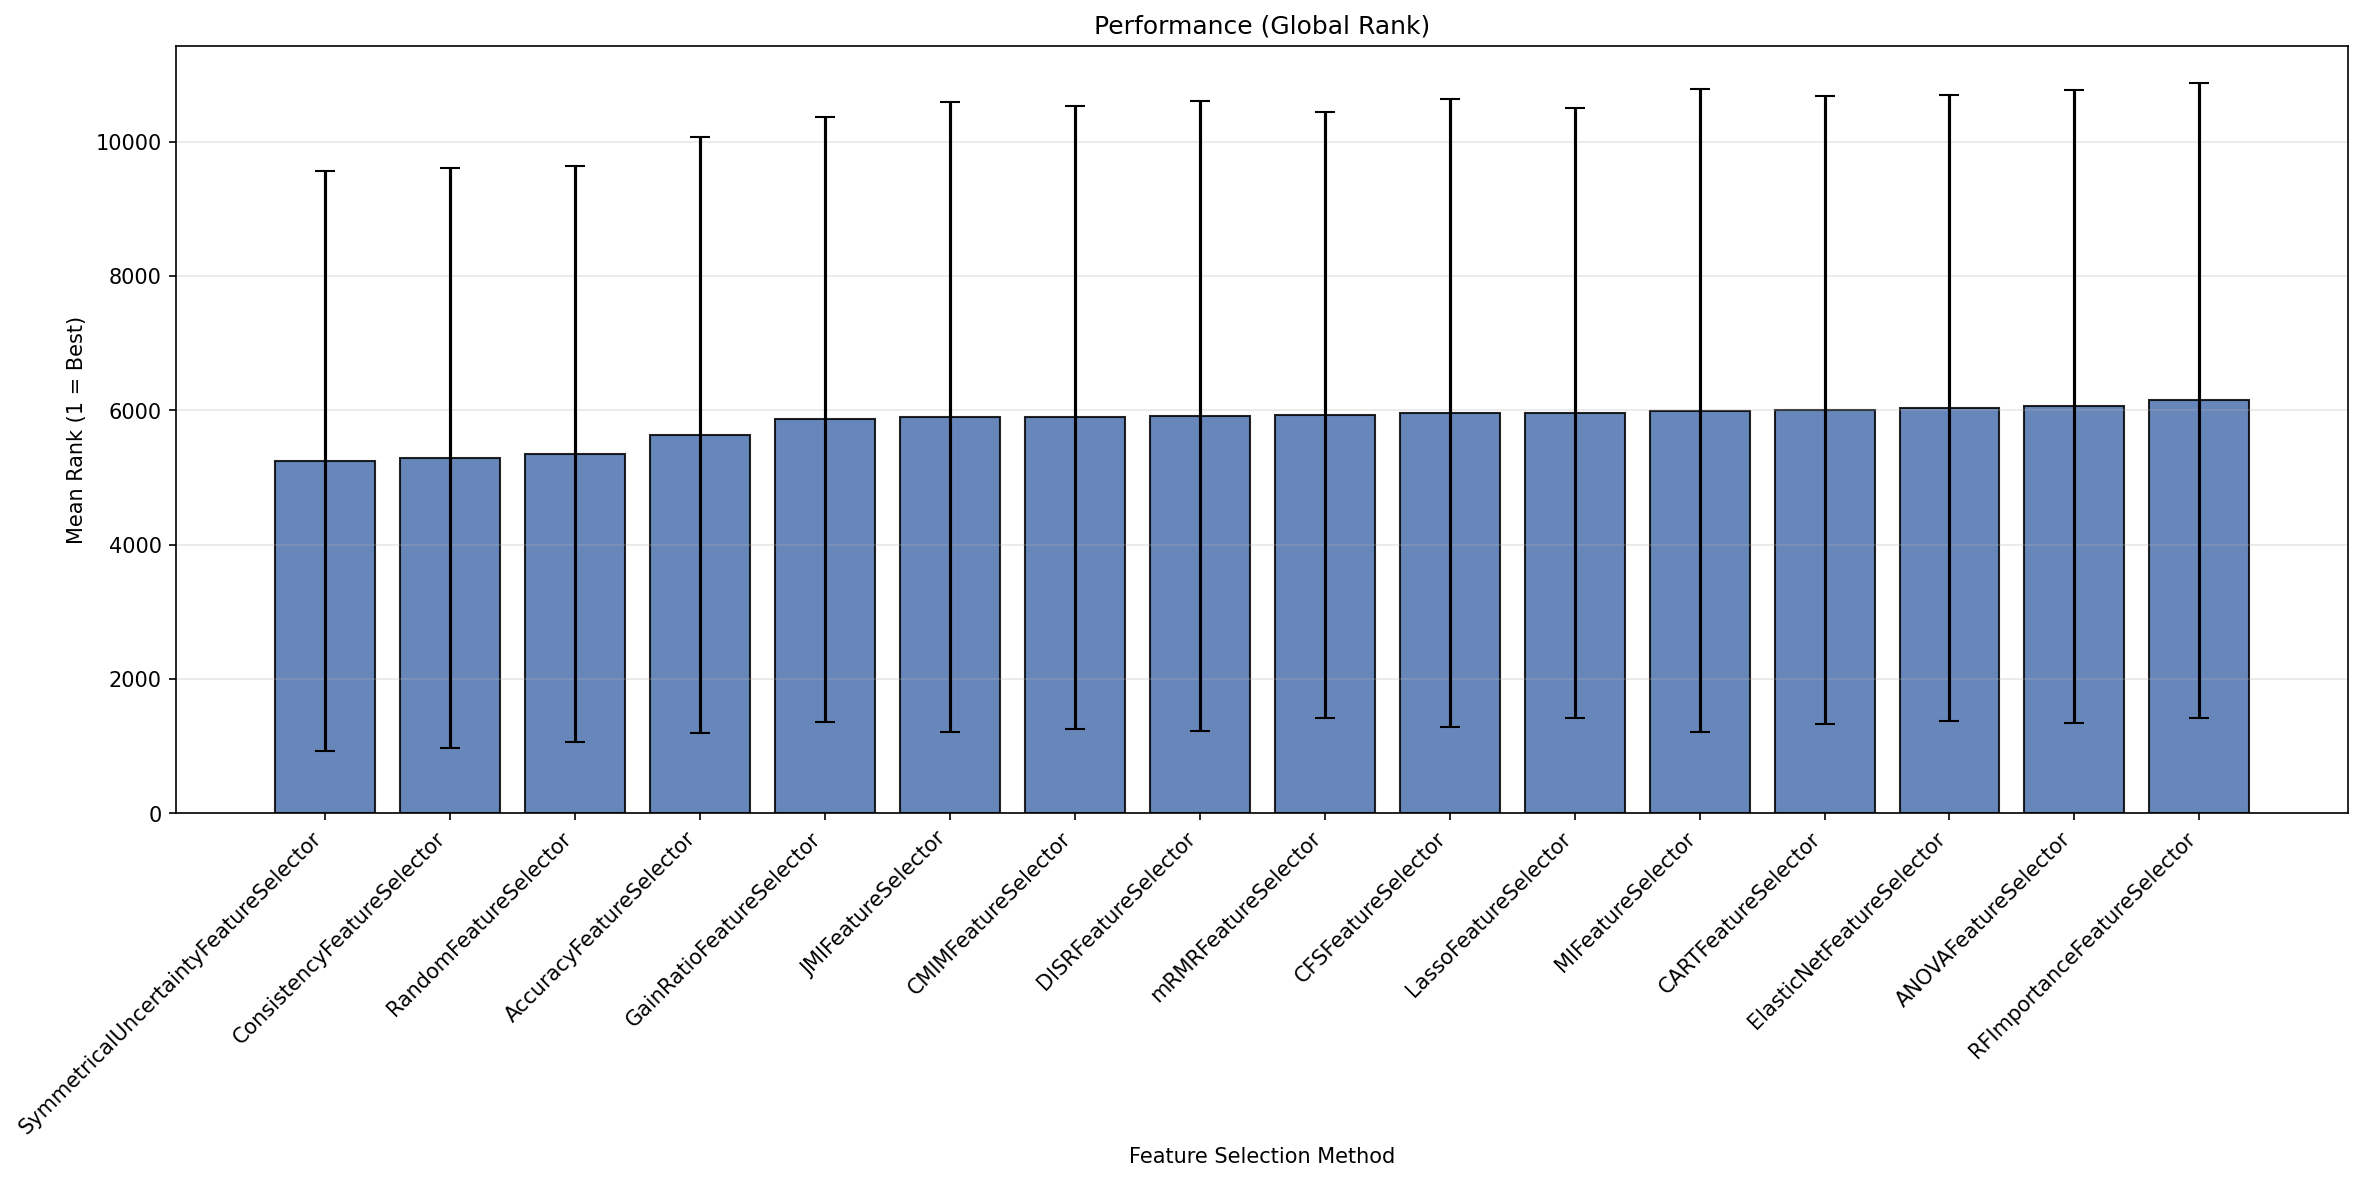
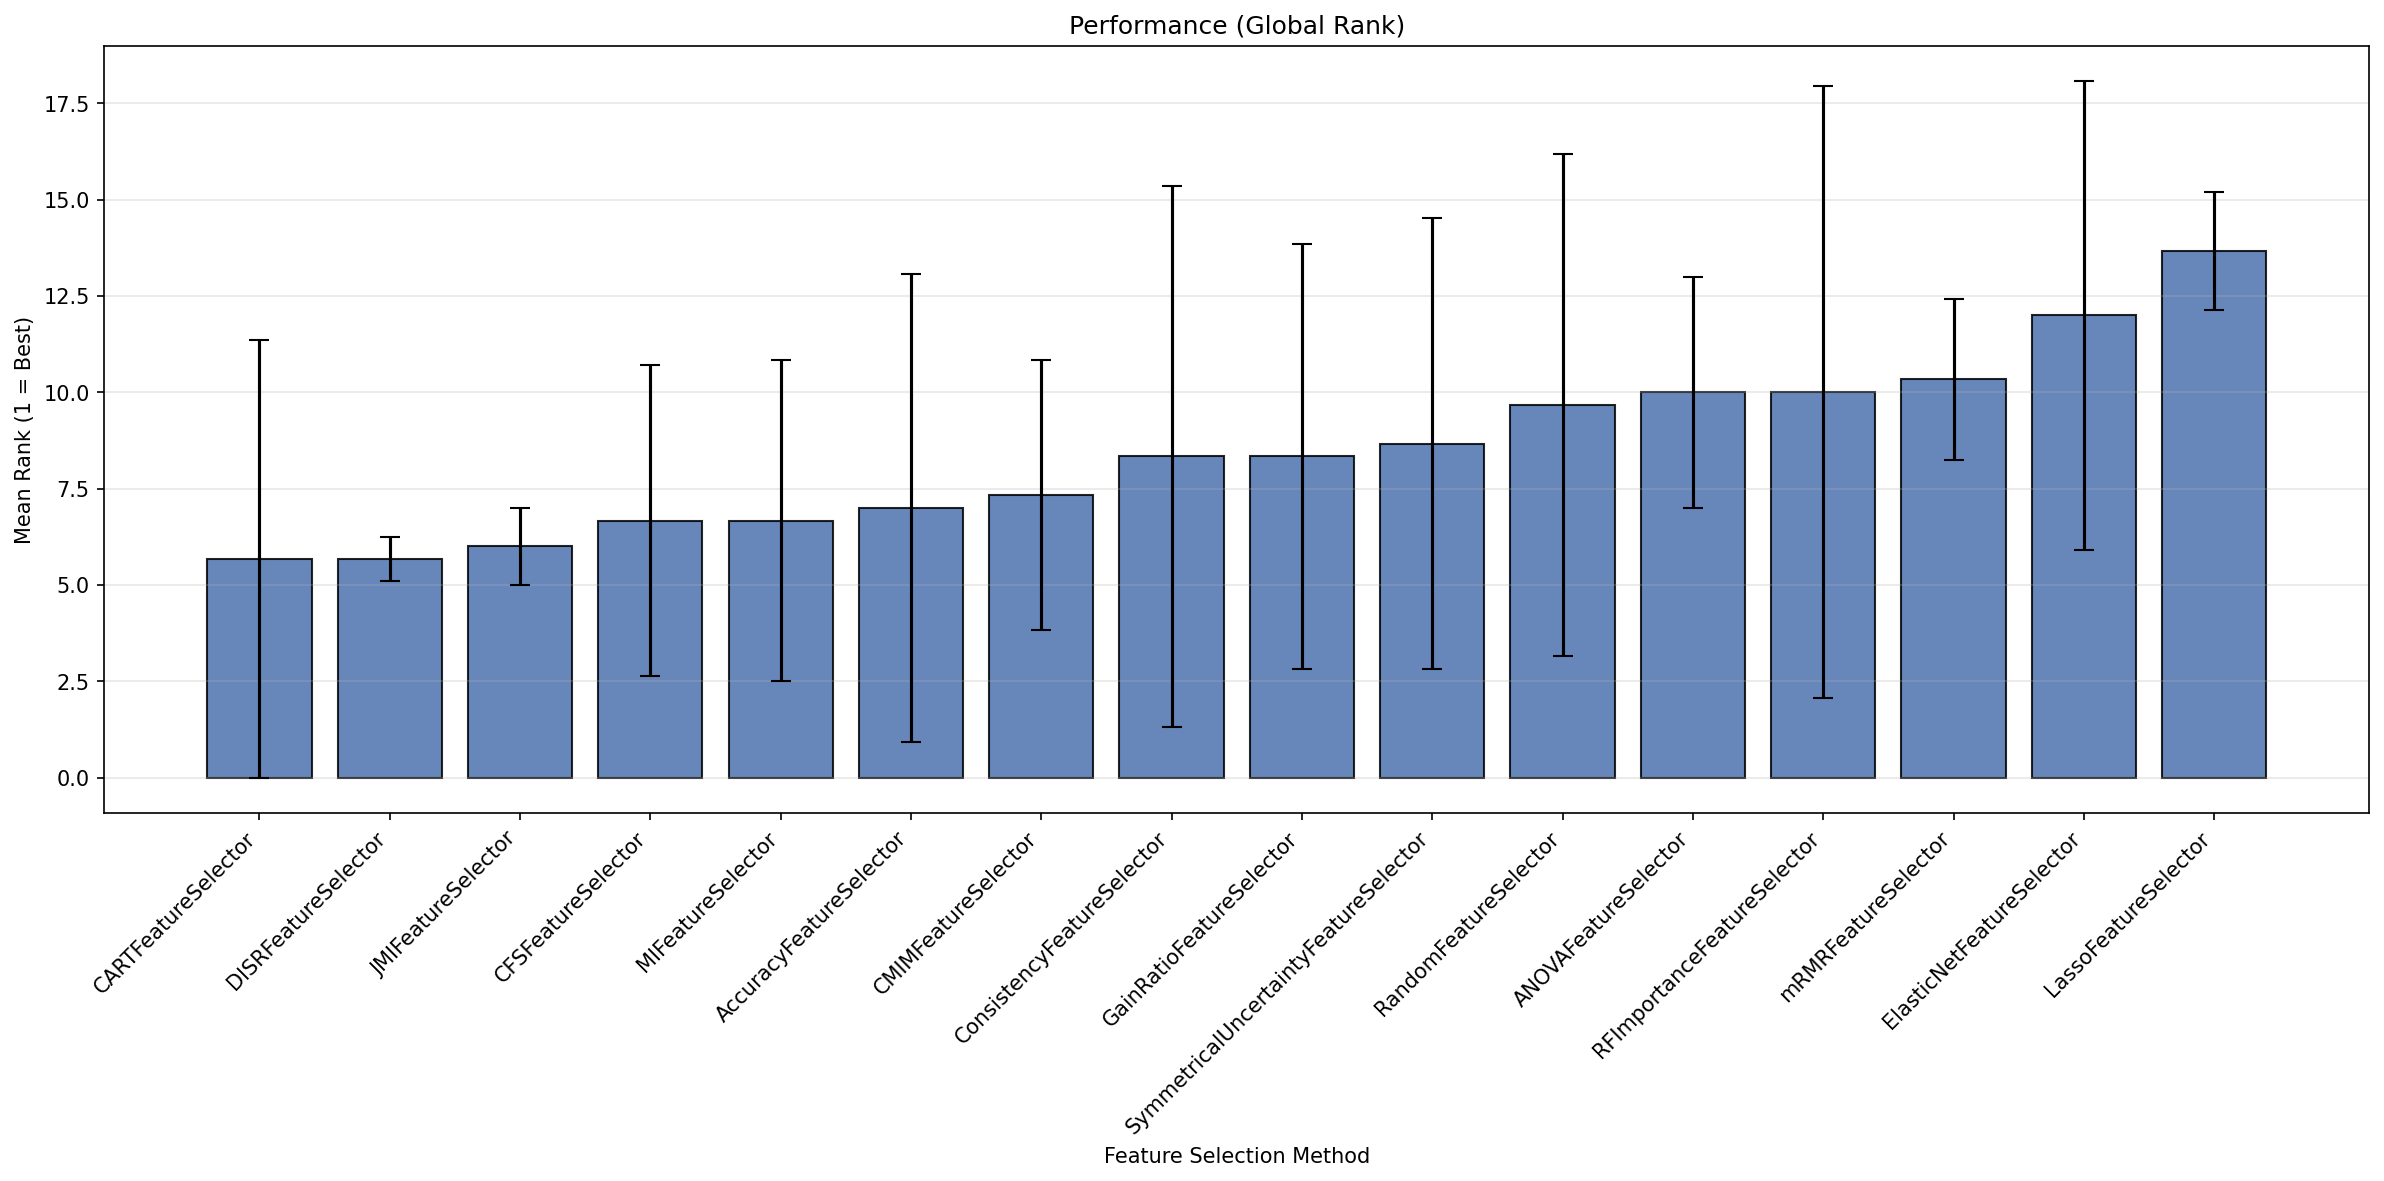
fix: add bug with ranks

diff --git a/plotting_code/performance/performance_v1.py b/plotting_code/performance/performance_v1.py
@@ -21,32 +21,34 @@ METRIC_DIRECTIONS = {
 
 
 def calculate_global_ranks(df):
-    """Calculate the global rank of each FS method across all datasets and metrics."""
     required_cols = ["metric", "feature_selection_method", "metric_error"]
     df_clean = df.dropna(subset=required_cols).copy()
 
     # 1. Adjust metric values so "Lower is ALWAYS Better"
     def adjust_direction(row):
-        is_lower_better = METRIC_DIRECTIONS.get(row["metric"], True)  # Default to True if unknown
+        is_lower_better = METRIC_DIRECTIONS.get(row["metric"], True)
         if not is_lower_better:
-            return -row["metric_error"]  # Invert so lower becomes better
+            return -row["metric_error"]
         return row["metric_error"]
 
     df_clean["adjusted_metric"] = df_clean.apply(adjust_direction, axis=1)
 
-    # 2. Calculate the Rank per Dataset and per Metric
-    # Group by dataset and metric_name, then rank the adjusted metric
-    df_clean["rank"] = df_clean.groupby(["metric"])["adjusted_metric"].rank(
-        method="min",  # Ties get the same minimum rank
-        ascending=True,  # 1 is best (lowest adjusted metric)
+    # 2. Average the adjusted metric per method, per dataset, per metric
+    # This collapses cross-validation splits and models so we only have ONE row per method
+    df_collapsed = df_clean.groupby(
+        ["metric", "feature_selection_method"]
+    )["adjusted_metric"].mean().reset_index()
+
+    # 3. Calculate the Rank
+    df_collapsed["rank"] = df_collapsed.groupby(["metric"])["adjusted_metric"].rank(
+        method="min",
+        ascending=True,
         na_option="bottom"
     )
 
-    # 3. Aggregate mean rank and std of rank per feature selection method
-    agg_df = df_clean.groupby("feature_selection_method")["rank"].agg(["mean", "std"]).reset_index()
+    # 4. Aggregate mean rank and std of rank per feature selection method
+    agg_df = df_collapsed.groupby("feature_selection_method")["rank"].agg(["mean", "std"]).reset_index()
     agg_df.columns = ["feature_selection_method", "mean_rank", "std_rank"]
-
-    # Fill NaN stds with 0 (happens if a method was only evaluated once)
     agg_df["std_rank"] = agg_df["std_rank"].fillna(0)
 
     return agg_df
